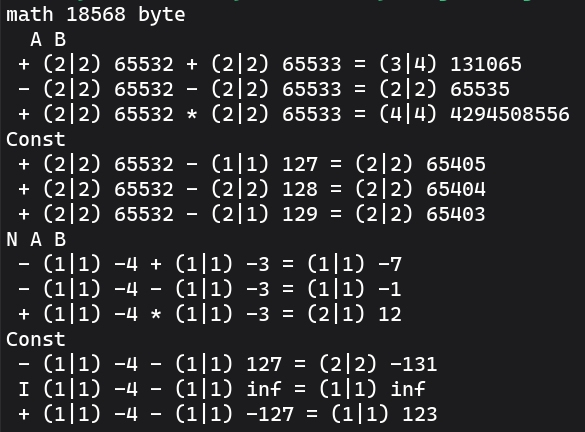
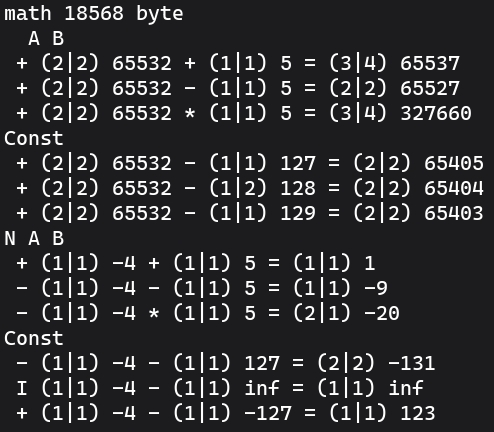
v12.9

diff --git a/math.c b/math.c
@@ -40,88 +40,88 @@ anu FCOLD(anu f, anu l, an r, an a) { l = FMOV(l, r, a); Mat.z = ((Mat.x = l)) ?
 anu FVI(anu f, an r, anu l, an c) { if (l--) { if (f) { FSWAP(l, r, c); return FMOV(l, r, r); }
     else return FMOV(l, r, c); } Mat.F = 1; Mat.N = 0; *r = 0; return 0; }
 
-void FADD(an r, an a, anu l, an b) { Mat.r = r; Mat.u = 0; Mat.C = (Mat.C != 0); Mat.b = b;
-  Mat.fa = *(Mat.a = a + Mat.l); Mat.na = (Mat.Nim && (Mat.fa & 0x80)) ? 0xFF:0; Mat.lb = l;
-  Mat.fb = *(Mat.d = b + l); Mat.nb = (Mat.Nim && (Mat.fb & 0x80)) ? 0xFF:0; Mat.N = l;
-  if (Mat.Nim) { Mat.F = 0; if (Mat.fb == 0x80) { Mat.e = b; while(l-- && !*Mat.e++) { } Mat.F = !++l; }
-    if (!Mat.F && Mat.fa == 0x80) { l = Mat.l; Mat.e = b; while(l-- && !*Mat.e++) { } Mat.F = !++l; }
+void FADD(an r, an a, anu l, an b) { Mat.r = r; Mat.v = 0; Mat.C = (Mat.C != 0); Mat.b = b;
+  Mat.x = *(Mat.a = a + Mat.l); Mat.na = (Mat.Nim && (Mat.x & 0x80)) ? 0xFF:0; Mat.lb = l;
+  Mat.y = *(Mat.d = b + l); Mat.nb = (Mat.Nim && (Mat.y & 0x80)) ? 0xFF:0; Mat.N = l;
+  if (Mat.Nim) { Mat.F = 0; if (Mat.y == 0x80) { Mat.e = b; while(l-- && !*Mat.e++) { } Mat.F = !++l; }
+    if (!Mat.F && Mat.x == 0x80) { l = Mat.l; Mat.e = b; while(l-- && !*Mat.e++) { } Mat.F = !++l; }
     if (Mat.F) { *r = 0x80; Mat.l = 0; Mat.F = 2; Mat.N = 0xFF; return; } }
   while(Mat.l-- && *Mat.a-- == Mat.na && (Mat.Nim ? !((*Mat.a ^ Mat.na) & 0x80):1)) { } Mat.F = ++Mat.l;
   while(Mat.N-- && *Mat.d-- == Mat.nb && (Mat.Nim ? !((*Mat.d ^ Mat.nb) & 0x80):1)) { } Mat.N++;
-  while(Mat.F && Mat.N && !(*a | *b)) { Mat.u |= (*r++ = Mat.C); Mat.C = 0; a++; b++; --Mat.F; --Mat.N; }
+  while(Mat.F && Mat.N && !(*a | *b)) { Mat.v |= (*r++ = Mat.C); Mat.C = 0; a++; b++; --Mat.F; --Mat.N; }
   if (Mat.F > Mat.N) { Mat.F -= Mat.N; while(Mat.N--) { Mat.x = *a++; Mat.y = *b++;
-      l = (*r++ = Mat.x + Mat.y + Mat.C); Mat.u |= l; Mat.C = (Mat.x > l) || (Mat.C && Mat.x == l); }
-    Mat.y = *b; while(Mat.F--) { Mat.x = *a++; l = (*r++ = Mat.x + Mat.y + Mat.C); Mat.u |= l;
+      l = (*r++ = Mat.x + Mat.y + Mat.C); Mat.v |= l; Mat.C = (Mat.x > l) || (Mat.C && Mat.x == l); }
+    Mat.y = *b; while(Mat.F--) { Mat.x = *a++; l = (*r++ = Mat.x + Mat.y + Mat.C); Mat.v |= l;
       Mat.C = (Mat.x > l) || (Mat.C && Mat.x == l); Mat.y = Mat.nb; } Mat.x = *a; }
   else { Mat.N -= Mat.F; while(Mat.F--) { Mat.x = *a++; Mat.y = *b++; l = (*r++ = Mat.x + Mat.y + Mat.C);
-      Mat.u |= l; Mat.C = (Mat.x > l) || (Mat.C && Mat.x == l); } Mat.x = *a;
-    while(Mat.N--) { Mat.y = *b++; l = (*r++ = Mat.x + Mat.y + Mat.C); Mat.u |= l;
+      Mat.v |= l; Mat.C = (Mat.x > l) || (Mat.C && Mat.x == l); } Mat.x = *a;
+    while(Mat.N--) { Mat.y = *b++; l = (*r++ = Mat.x + Mat.y + Mat.C); Mat.v |= l;
       Mat.C = (Mat.x > l) || (Mat.C && Mat.x == l); Mat.x = Mat.na; } Mat.y = *b; }
   Mat.l = r - Mat.r; *r = Mat.x + Mat.y + Mat.C; Mat.C = (Mat.x > *r) || (Mat.C && Mat.x == *r);
-  Mat.C = (Mat.Nim) ? ((!(Mat.na ^ Mat.nb) && ((Mat.na ^ *r) & 0x80)) || (!Mat.u && *r == 0x80)):Mat.C;
-  if (Mat.C && Mat.l != 0xFF) { Mat.l++; Mat.u |= *r++; *r = Mat.Nim ? Mat.na:Mat.C; Mat.C--; }
-  Mat.N = (Mat.Nim) ? (*r & 0x80) ? 0xFF:0:0; if ((Mat.F = !(Mat.u | *r))) Mat.l = 0; }
+  Mat.C = (Mat.Nim) ? ((!(Mat.na ^ Mat.nb) && ((Mat.na ^ *r) & 0x80)) || (!Mat.v && *r == 0x80)):Mat.C;
+  if (Mat.C && Mat.l != 0xFF) { Mat.l++; Mat.v |= *r++; *r = Mat.Nim ? Mat.na:Mat.C; Mat.C--; }
+  Mat.N = (Mat.Nim) ? (*r & 0x80) ? 0xFF:0:0; if ((Mat.F = !(Mat.v | *r))) Mat.l = 0; }
 
-void FSUB(an r, an a, anu l, an b) { Mat.r = r; Mat.u = 0; Mat.C = (Mat.C != 0); Mat.b = b;
-  Mat.fa = *(Mat.a = a + Mat.l); Mat.na = (Mat.Nim && (Mat.fa & 0x80)) ? 0xFF:0; Mat.lb = l;
-  Mat.fb = *(Mat.d = b + l); Mat.nb = (Mat.Nim && (Mat.fb & 0x80)) ? 0xFF:0; Mat.N = l;
-  if (Mat.Nim) { Mat.F = 0; if (Mat.fb == 0x80) { Mat.e = b; while(l-- && !*Mat.e++) { } Mat.F = !++l; }
-    if (!Mat.F && Mat.fa == 0x80) { l = Mat.l; Mat.e = b; while(l-- && !*Mat.e++) { } Mat.F = !++l; }
+void FSUB(an r, an a, anu l, an b) { Mat.r = r; Mat.v = 0; Mat.C = (Mat.C != 0); Mat.b = b;
+  Mat.x = *(Mat.a = a + Mat.l); Mat.na = (Mat.Nim && (Mat.x & 0x80)) ? 0xFF:0; Mat.lb = l;
+  Mat.y = *(Mat.d = b + l); Mat.nb = (Mat.Nim && (Mat.y & 0x80)) ? 0xFF:0; Mat.N = l;
+  if (Mat.Nim) { Mat.F = 0; if (Mat.y == 0x80) { Mat.e = b; while(l-- && !*Mat.e++) { } Mat.F = !++l; }
+    if (!Mat.F && Mat.x == 0x80) { l = Mat.l; Mat.e = b; while(l-- && !*Mat.e++) { } Mat.F = !++l; }
     if (Mat.F) { *r = 0x80; Mat.l = 0; Mat.F = 2; Mat.N = 0xFF; return; } } l = Mat.C ? 0xFF:0;
   while(Mat.l-- && *Mat.a-- == Mat.na && (Mat.Nim ? !((*Mat.a ^ Mat.na) & 0x80):1)) { } Mat.F = ++Mat.l;
   while(Mat.N-- && *Mat.d-- == Mat.nb && (Mat.Nim ? !((*Mat.d ^ Mat.nb) & 0x80):1)) { } Mat.N++;
-  while(Mat.F && Mat.N && !(*a | *b)) { Mat.u |= (*r++ = l); a++; b++; --Mat.F; --Mat.N; }
+  while(Mat.F && Mat.N && !(*a | *b)) { Mat.v |= (*r++ = l); a++; b++; --Mat.F; --Mat.N; }
   if (Mat.F > Mat.N) { Mat.F -= Mat.N; while(Mat.N--) { Mat.x = *a++; Mat.y = *b++;
-      l = (*r++ = Mat.x - Mat.y - Mat.C); Mat.u |= l; Mat.C = (Mat.x < l) || (Mat.C && Mat.x == l); }
-    Mat.y = *b; while(Mat.F--) { Mat.x = *a++; l = (*r++ = Mat.x - Mat.y - Mat.C); Mat.u |= l;
+      l = (*r++ = Mat.x - Mat.y - Mat.C); Mat.v |= l; Mat.C = (Mat.x < l) || (Mat.C && Mat.x == l); }
+    Mat.y = *b; while(Mat.F--) { Mat.x = *a++; l = (*r++ = Mat.x - Mat.y - Mat.C); Mat.v |= l;
       Mat.C = (Mat.x < l) || (Mat.C && Mat.x == l); Mat.y = Mat.nb; } Mat.x = *a; }
   else { Mat.N -= Mat.F; while(Mat.F--) { Mat.x = *a++; Mat.y = *b++; l = (*r++ = Mat.x - Mat.y - Mat.C);
-      Mat.u |= l; Mat.C = (Mat.x < l) || (Mat.C && Mat.x == l); } Mat.x = *a;
-    while(Mat.N--) { Mat.y = *b++; l = (*r++ = Mat.x - Mat.y - Mat.C); Mat.u |= l;
+      Mat.v |= l; Mat.C = (Mat.x < l) || (Mat.C && Mat.x == l); } Mat.x = *a;
+    while(Mat.N--) { Mat.y = *b++; l = (*r++ = Mat.x - Mat.y - Mat.C); Mat.v |= l;
       Mat.C = (Mat.x < l) || (Mat.C && Mat.x == l); Mat.x = Mat.na; } Mat.y = *b; }
   Mat.l = r - Mat.r; *r = Mat.x - Mat.y - Mat.C; Mat.C = (Mat.x < *r) || (Mat.C && Mat.x == *r);
-  if (!Mat.Nim) { Mat.N = 0; if (Mat.C) { Mat.u = 1; Mat.N++; Mat.C--; } }
+  if (!Mat.Nim) { Mat.N = 0; if (Mat.C) { Mat.v = 1; Mat.N++; Mat.C--; } }
   else { Mat.N = (*r & 0x80) ? 0xFF:0;
-    Mat.C = (((Mat.na ^ Mat.nb) && (Mat.na ^ Mat.N)) || (!Mat.u && *r == 0x80)); 
-    if (Mat.C && Mat.l != 0xFF) { Mat.l++; Mat.u |= *r++; *r = Mat.na; Mat.N = Mat.na; Mat.C--; } }
-  if ((Mat.F = !(Mat.u | *r))) Mat.l = 0; }
+    Mat.C = (((Mat.na ^ Mat.nb) && (Mat.na ^ Mat.N)) || (!Mat.v && *r == 0x80)); 
+    if (Mat.C && Mat.l != 0xFF) { Mat.l++; Mat.v |= *r++; *r = Mat.na; Mat.N = Mat.na; Mat.C--; } }
+  if ((Mat.F = !(Mat.v | *r))) Mat.l = 0; }
 
-void FMUL(an r, an a, anu l, an b) { Mat.r = r; Mat.C = (Mat.C != 0); Mat.b = b; Mat.lb = l;
+void FMUL(an r, an a, anu l, an b) { Mat.r = r; Mat.b = b; Mat.lb = l;
   Mat.x = *(Mat.a = a + Mat.l); Mat.na = (Mat.Nim && (Mat.x & 128)) ? 255:0; Mat.N = l;
   Mat.y = *(Mat.d = b + l); Mat.nb = (Mat.Nim && (Mat.y & 128)) ? 255:0; Mat.F = Mat.l;
   while(!*a && Mat.F) { a++; Mat.F--; } while(!*b && Mat.N) { b++; Mat.N--; }
   if (!Mat.F || !Mat.N) { if (!Mat.x || !Mat.y || (Mat.Nim && (Mat.x == 128 || Mat.y == 128))) {
-      Mat.F = (Mat.N = (*r = (Mat.x && Mat.y) ? 128:0) ? 255:0) ? 2:1; Mat.l = 0; Mat.C = 0; return; } }
-  Mat.l -= Mat.F; l -= Mat.N;
+      Mat.F = 1; Mat.N = 0; if (!Mat.x || !Mat.y) *r = 0; else { *r = 128; Mat.N--; Mat.F++; }
+      Mat.l = 0; Mat.C = 0; return; } } Mat.l -= Mat.F; l -= Mat.N; Mat.C = (Mat.C != 0);
   while(*Mat.a-- == Mat.na && (Mat.Nim ? !((*Mat.a ^ Mat.na) & 128):1) && Mat.F) { Mat.F--; }
   while(*Mat.d-- == Mat.nb && (Mat.Nim ? !((*Mat.d ^ Mat.nb) & 128):1) && Mat.N) { Mat.N--; }
-  Mat.x = Mat.l + l; Mat.l = Mat.x + Mat.F + Mat.N; Mat.l++;
-  if (Mat.x > Mat.l) { Mat.F = 2; Mat.N = 255; *r = 128; Mat.l = 0; Mat.C = 1; return; }
-  Mat.a = &Mat.Hi.l; Mat.d = &Mat.Lo.l; if (Mat.F > Mat.N) {
+  Mat.y = Mat.l; Mat.x = Mat.l + l; Mat.z = Mat.x + Mat.F; Mat.l = Mat.z + Mat.N; Mat.l++;
+  if (Mat.y > Mat.x || Mat.x > Mat.z || Mat.z > Mat.l) { Mat.F = 2; Mat.N = 255; *r = 128;
+    Mat.l = 0; Mat.C = 1; return; } Mat.a = &Mat.Hi.l; Mat.d = &Mat.Lo.l;
+  if (Mat.F > Mat.N) {
     l = Mat.F; if (Mat.na) { Mat.z = 1; do Mat.z = !(*Mat.a++ = ~*a++ + Mat.z); while(l--); }
     else { do *Mat.a++ = *a++; while(l--); }
     l = Mat.N; if (Mat.nb) { Mat.z = 1; do Mat.z = !(*Mat.d++ = ~*b++ + Mat.z); while(l--); }
-    else { do *Mat.d++ = *b++; while(l--); } }
-  else { l = Mat.F; Mat.F = Mat.N;
+    else { do *Mat.d++ = *b++; while(l--); } } else { l = Mat.F; Mat.F = Mat.N;
     Mat.N = l; if (Mat.nb) { Mat.z = 1; do Mat.z = !(*Mat.a++ = ~*b++ + Mat.z); while(l--); }
     else { do *Mat.a++ = *b++; while(l--); }
     l = Mat.F; if (Mat.na) { Mat.z = 1; do Mat.z = !(*Mat.d++ = ~*a++ + Mat.z); while(l--); }
     else { do *Mat.d++ = *a++; while(l--); } } *Mat.d = 0; Mat.N++; *r++ = Mat.C; l = Mat.l;
   do *r++ = 0; while(l--); r = Mat.r + Mat.x; Mat.a = &Mat.Hi.l;
-  do { if ((Mat.u = *Mat.a++)) { a = &Mat.Sr.l; b = &Mat.Lo.l; l = Mat.N; do *a++ = *b++; while(l--);
-         do { Mat.z = 0; b = &Mat.Sr.l; l = Mat.N; if (!(Mat.u & 1)) {
+  do { if ((Mat.v = *Mat.a++)) { a = &Mat.Sr.l; b = &Mat.Lo.l; l = Mat.N; do *a++ = *b++; while(l--);
+         do { Mat.z = 0; b = &Mat.Sr.l; l = Mat.N; if (!(Mat.v & 1)) {
              do { Mat.w = *b; *b++ = (Mat.w << 1) | Mat.z; Mat.z = (Mat.w & 128) ? 1:0; } while(l--); }
            else { a = r; Mat.C = 0; do { Mat.w = *b; Mat.x = *a; Mat.y = (*a++ = (Mat.x + Mat.w + Mat.C));
              Mat.C = (Mat.x > Mat.y) || (Mat.C && Mat.x == Mat.y); *b++ = (Mat.w << 1) | Mat.z;
-             Mat.z = (Mat.w & 128) ? 1:0; } while(l--); } } while(Mat.u >>= 1); } r++; } while(Mat.F--);
+             Mat.z = (Mat.w & 128) ? 1:0; } while(l--); } } while(Mat.v >>= 1); } r++; } while(Mat.F--);
   Mat.F++; Mat.N = Mat.na ^ Mat.nb; if (Mat.N) { l = Mat.l; r = Mat.r; Mat.z = 1;
     do { Mat.z = !(*r = ~*r + Mat.z); r++; } while(l--); } }
 
-void FDIV(an r, an e, an a, anu l, an b) { Mat.r = r; Mat.C = (Mat.C != 0); Mat.b = b; Mat.lb = l;
-  Mat.fa = *(Mat.a = a + Mat.l); Mat.na = (Mat.Nim && (Mat.fa & 0x80)) ? 0xFF:0; Mat.N = l;
-  Mat.fb = *(Mat.d = b + l); Mat.nb = (Mat.Nim && (Mat.fb & 0x80)) ? 0xFF:0; Mat.F = Mat.l;
-  while(Mat.F && !*a) { a++; Mat.F--; } while(Mat.N && !*b) { b++; Mat.N--; }
-  if (!Mat.F || !Mat.N) { if (!Mat.fa || !Mat.fb || (Mat.Nim && (Mat.fa == 0x80 || Mat.fb == 0x80))) {
+void FDIV(an r, an e, an a, anu l, an b) { Mat.r = r; Mat.b = b; Mat.lb = l;
+  Mat.x = *(Mat.a = a + Mat.l); Mat.na = (Mat.Nim && (Mat.x & 128)) ? 255:0; Mat.N = l;
+  Mat.y = *(Mat.d = b + l); Mat.nb = (Mat.Nim && (Mat.y & 128)) ? 255:0; Mat.F = Mat.l;
+  while(!*a && Mat.F) { a++; Mat.F--; } while(!*b && Mat.N) { b++; Mat.N--; }
+  if (!Mat.F || !Mat.N) { if (!Mat.x || !Mat.y || (Mat.Nim && (Mat.x == 128 || Mat.y == 128))) {
     return; } }
   (void)e; }
 

diff --git a/math.h b/math.h
@@ -19,14 +19,16 @@
 // Mat.N{Ne}    [00/XX] для чисел без знаковое или положительное{00} иначе {FF}отрицательное
 // Mat.l        [0.255] длина операнда a, длина результата r
 // Mat.le       [0.255] длина остатка e
-// Mat.Nim Mat.R{E{A{B}}} не подлежат изменению внутри функций
+// Mat.lb       [0.255] длина последнего обработанного второго операнда
+// Mat.b        адрес последнего обработанного второго операнда
+// Mat.Nim Mat.R{E{A{B{D}}}} не подлежат изменению внутри функций
 typedef uintptr_t As;                           // основа, разрядность процессора
 typedef uint8_t anu;                            // атом, минимальная единица
 typedef anu* an;                                // число, начальный адрес расположения
-typedef struct { anu l, m[254], h, e; } MatBuf;	// 256 атомов + 1 атом {умножение/деление}
-typedef struct { MatBuf Hi, Lo, Sr; anu Nim,    // Структура реализации библиотеки
-  l, lb, le, C, F, N, Fe, Ne, fa, na, fb, nb,
-  u, v, w, x, y, z; an r, e, a, b, R, E, A, B, D, d; } Math;
+typedef struct { anu l, m[254], h, e; } MatBuf; // 256 атомов + атом {умножить/разделить}
+typedef struct { MatBuf Hi, Lo, Sr;             // Структура реализации библиотеки
+  anu Nim, l, lb, le, C, F, N, Fe, Ne, na, nb,
+  u, v, w, x, y, z; an R, E, A, B, D, r, e, a, b, d; } Math;
 void FInit(anu x, anu y, an r, anu c, an a);    // Nim=l=lb..Ne=0 {Nim{,la{,lb}}}, {la{,lb}}
 void FAddr(anu y, As* r, anu c, As* a);         // {r{,e{,a{,b{,d}}}}} (Mat.R = r; ..)
 void FSWAP(anu l, an r, an a);                  // Зеркалирование атомов длиной l относительно центра

diff --git a/main.c b/main.c
@@ -18,7 +18,7 @@ void Num(anu s, an a) { anu ns, t[m]; if (s > 8) { printf(" %d|? ", s + 1); retu
     else if (ns) printf("%d ", *(int16_t*)a); else printf("%d ", *(int8_t*)a); }
   else { if (ns > 3) printf("%lu ", *(uint64_t*)a); else if (ns > 1) printf("%u ", *(uint32_t*)a);
     else if (ns) printf("%u ", *(uint16_t*)a); else printf("%u ", *(uint8_t*)a); } }
-void Show(char s) { Flong(la,lb); Mat.C = 0;
+void Show(char s) { Flong(la); Mat.C = 0;
   if (s == '+') FAdd(); else if (s == '-') FSub(); else if (s == '*') FMul(); else if (s == '/') FDiv();
   else { FSubc(127); } printf("%c%c ", Mat.C ? 'C':' ', Mat.F ? (Mat.N ? 'I':'Z') : (Mat.N ? '-':'+'));
   Num(la, Mat.A); if (s == 'c') printf("- "); else { printf("%c ", s); } Num(Mat.lb, Mat.b); printf("= "); Num(Mat.l, Mat.R);
@@ -28,5 +28,5 @@ void Const(void) { anu l, i = 2; printf("Const\n"); Show('c'); Mat.D = Mat.B;
 void Test(void) { printf("%c A B\n", Mat.Nim ? 'N':' '); Show('+'); Show('-'); Show('*'); /*Show('/');*/Const(); }
 
 int main(void) { anu a[m], b[m], e[m], r[m+m];
-  Faddr((As)r, (As)e, (As)a, (As)b); Fini(); la = Fbvi(Mat.A, 255,252); lb = Fvi(Mat.B, 253,255);
+  Faddr((As)r, (As)e, (As)a, (As)b); Fini(); la = Fbvi(Mat.A, 255,252); lb = Fvi(Mat.B, 5);
   Test(); Fini(1); la = Fmov(la, Mat.A); lb = Fmov(lb, Mat.B); Test(); return 0; }
